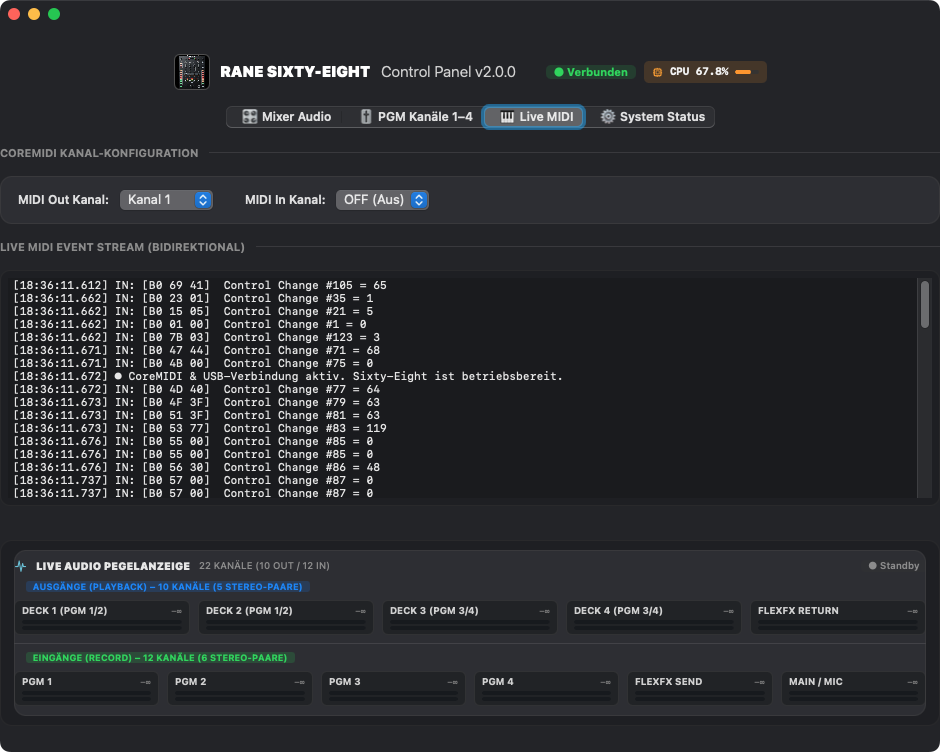
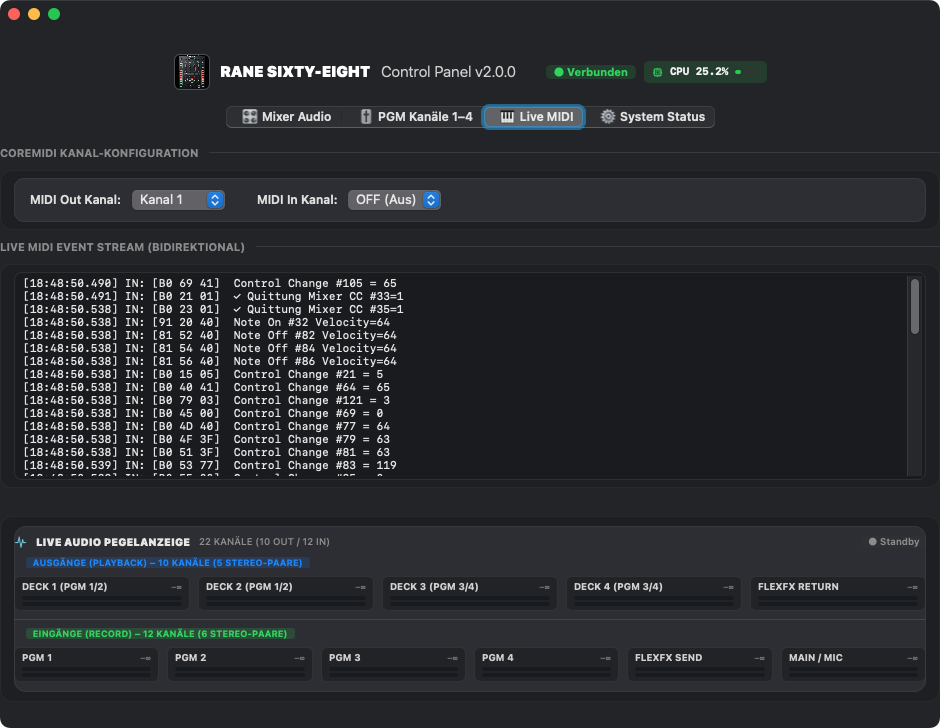
feat(ui): Unify dual-tier inset container styling across all tabs and sections

diff --git a/src/manager/Views/Tabs/SystemStatusTab.swift b/src/manager/Views/Tabs/SystemStatusTab.swift
@@ -8,7 +8,7 @@ extension MainWindowController {
         let page = NSStackView()
         page.orientation = .vertical
         page.alignment = .leading
-        page.spacing = 16
+        page.spacing = 10
         page.edgeInsets = NSEdgeInsets(top: 2, left: 0, bottom: 2, right: 0)
 
         let sHeader = createSectionHeader(title: Localization.tr(en: "macOS Audio & MIDI Subsystem Diagnostics", de: "macOS Audio- & MIDI-Subsystem Diagnose"))
@@ -27,32 +27,36 @@ extension MainWindowController {
         firmwareStatusLabel = createStatusRow(title: Localization.tr(en: "Mixer Firmware:", de: "Mixer Firmware:"), stack: statusStack)
         cpuStatusLabel = createStatusRow(title: Localization.tr(en: "System CPU Load:", de: "System CPU-Auslastung:"), stack: statusStack)
 
-        let statusCard = statusStack.wrapInCard(padding: NSEdgeInsets(top: 14, left: 18, bottom: 14, right: 18))
-        page.addArrangedSubview(statusCard)
-        statusCard.widthAnchor.constraint(equalTo: page.widthAnchor).isActive = true
+        let statusCard = statusStack.wrapInCard(
+            cornerRadius: 10,
+            borderColor: NSColor(white: 0.28, alpha: 0.45),
+            fillColor: NSColor(red: 0.176, green: 0.180, blue: 0.200, alpha: 1.0),
+            padding: NSEdgeInsets(top: 10, left: 14, bottom: 10, right: 14)
+        )
 
         let btnRow = NSStackView()
         btnRow.orientation = .horizontal
-        btnRow.spacing = 12
+        btnRow.spacing = 10
+        btnRow.distribution = .fillEqually
 
-        let rstBtn = NSButton(title: Localization.tr(en: "🔄 Restart CoreAudio & MIDI Services", de: "🔄 CoreAudio & MIDI Dienst Neu Starten"), target: self, action: #selector(onRestartDriverClicked))
+        let rstBtn = NSButton(title: Localization.tr(en: "🔄 Restart Services", de: "🔄 Dienst Neu Starten"), target: self, action: #selector(onRestartDriverClicked))
         rstBtn.bezelStyle = .rounded
         rstBtn.controlSize = .regular
 
-        let diagBtn = NSButton(title: Localization.tr(en: "🔍 Refresh Diagnostics", de: "🔍 Diagnose Aktualisieren"), target: self, action: #selector(onDiagnoseClicked))
+        let diagBtn = NSButton(title: Localization.tr(en: "🔍 Refresh", de: "🔍 Aktualisieren"), target: self, action: #selector(onDiagnoseClicked))
         diagBtn.bezelStyle = .rounded
         diagBtn.controlSize = .regular
 
-        let ledTitle = isLedTestRunning ? Localization.tr(en: "⏹ Stop LED Check", de: "⏹ LED-Test Beenden")
-                                        : Localization.tr(en: "💡 Mixer LED Light Test", de: "💡 Mixer LED-Lichtcheck")
+        let ledTitle = isLedTestRunning ? Localization.tr(en: "⏹ Stop LED", de: "⏹ LED Stop")
+                                        : Localization.tr(en: "💡 LED Test", de: "💡 LED-Check")
         let ledBtn = NSButton(title: ledTitle, target: self, action: #selector(onLedTestClicked))
         ledBtn.bezelStyle = .rounded
         ledBtn.controlSize = .regular
         ledBtn.isEnabled = RaneMidiService.shared.isConnected
         self.ledTestButton = ledBtn
 
-        let stressTitle = isStressTestRunning ? Localization.tr(en: "⏹ Stop Stress Test", de: "⏹ Stresstest Beenden")
-                                              : Localization.tr(en: "🔥 Hardware Stress Test", de: "🔥 Hardware-Stresstest")
+        let stressTitle = isStressTestRunning ? Localization.tr(en: "⏹ Stop Stress", de: "⏹ Stress Stop")
+                                              : Localization.tr(en: "🔥 Stresstest", de: "🔥 Stresstest")
         let stressBtn = NSButton(title: stressTitle, target: self, action: #selector(onStressTestClicked))
         stressBtn.bezelStyle = .rounded
         stressBtn.controlSize = .regular
@@ -63,7 +67,22 @@ extension MainWindowController {
         btnRow.addArrangedSubview(diagBtn)
         btnRow.addArrangedSubview(ledBtn)
         btnRow.addArrangedSubview(stressBtn)
-        page.addArrangedSubview(btnRow)
+
+        let diagContainerStack = NSStackView()
+        diagContainerStack.orientation = .vertical
+        diagContainerStack.alignment = .leading
+        diagContainerStack.spacing = 10
+        diagContainerStack.addArrangedSubview(statusCard)
+        statusCard.widthAnchor.constraint(equalTo: diagContainerStack.widthAnchor).isActive = true
+        diagContainerStack.addArrangedSubview(btnRow)
+        btnRow.widthAnchor.constraint(equalTo: diagContainerStack.widthAnchor).isActive = true
+
+        let diagInsetCard = diagContainerStack.wrapInInsetCard(
+            cornerRadius: 12,
+            padding: NSEdgeInsets(top: 8, left: 14, bottom: 10, right: 14)
+        )
+        page.addArrangedSubview(diagInsetCard)
+        diagInsetCard.widthAnchor.constraint(equalTo: page.widthAnchor).isActive = true
 
         let monHeader = createSectionHeader(title: Localization.tr(en: "Driver Log & Diagnostics", de: "Treiber Meldungen & Protokoll"))
         page.addArrangedSubview(monHeader)
@@ -81,10 +100,19 @@ extension MainWindowController {
         sysLogTextView.textColor = NSColor(white: 0.90, alpha: 1.0)
         scroll.documentView = sysLogTextView
 
-        let scrollCard = scroll.wrapInInsetCard(padding: NSEdgeInsets(top: 8, left: 8, bottom: 8, right: 8))
+        let innerScrollCard = scroll.wrapInCard(
+            cornerRadius: 8,
+            borderColor: NSColor(white: 0.28, alpha: 0.45),
+            fillColor: NSColor(red: 0.10, green: 0.105, blue: 0.12, alpha: 1.0),
+            padding: NSEdgeInsets(top: 4, left: 4, bottom: 4, right: 4)
+        )
+        let scrollCard = innerScrollCard.wrapInInsetCard(
+            cornerRadius: 12,
+            padding: NSEdgeInsets(top: 8, left: 14, bottom: 8, right: 14)
+        )
         page.addArrangedSubview(scrollCard)
         scrollCard.widthAnchor.constraint(equalTo: page.widthAnchor).isActive = true
-        scroll.heightAnchor.constraint(equalToConstant: 160).isActive = true
+        scroll.heightAnchor.constraint(equalToConstant: 140).isActive = true
 
         let bottomSpacer = NSView()
         bottomSpacer.setContentHuggingPriority(.defaultLow, for: .vertical)

diff --git a/src/manager/Views/Tabs/LiveMidiTab.swift b/src/manager/Views/Tabs/LiveMidiTab.swift
@@ -8,7 +8,7 @@ extension MainWindowController {
         let page = NSStackView()
         page.orientation = .vertical
         page.alignment = .leading
-        page.spacing = 16
+        page.spacing = 10
         page.edgeInsets = NSEdgeInsets(top: 2, left: 0, bottom: 2, right: 0)
 
         let secHeader = createSectionHeader(title: Localization.tr(en: "CoreMIDI Channel Configuration", de: "CoreMIDI Kanal-Konfiguration"))
@@ -48,7 +48,11 @@ extension MainWindowController {
         configStack.addArrangedSubview(outStack)
         configStack.addArrangedSubview(inStack)
 
-        let topCard = configStack.wrapInCard(padding: NSEdgeInsets(top: 14, left: 18, bottom: 14, right: 18))
+        let topCard = configStack.wrapInDualTierSectionCard(
+            cardCornerRadius: 10,
+            cardPadding: NSEdgeInsets(top: 12, left: 16, bottom: 12, right: 16),
+            insetPadding: NSEdgeInsets(top: 8, left: 14, bottom: 8, right: 14)
+        )
         page.addArrangedSubview(topCard)
         topCard.widthAnchor.constraint(equalTo: page.widthAnchor).isActive = true
 
@@ -82,10 +86,19 @@ extension MainWindowController {
         midiLogTextView.textColor = NSColor(white: 0.90, alpha: 1.0)
         scroll.documentView = midiLogTextView
 
-        let scrollCard = scroll.wrapInInsetCard(padding: NSEdgeInsets(top: 8, left: 8, bottom: 8, right: 8))
+        let innerScrollCard = scroll.wrapInCard(
+            cornerRadius: 8,
+            borderColor: NSColor(white: 0.28, alpha: 0.45),
+            fillColor: NSColor(red: 0.10, green: 0.105, blue: 0.12, alpha: 1.0),
+            padding: NSEdgeInsets(top: 4, left: 4, bottom: 4, right: 4)
+        )
+        let scrollCard = innerScrollCard.wrapInInsetCard(
+            cornerRadius: 12,
+            padding: NSEdgeInsets(top: 8, left: 14, bottom: 8, right: 14)
+        )
         page.addArrangedSubview(scrollCard)
         scrollCard.widthAnchor.constraint(equalTo: page.widthAnchor).isActive = true
-        scroll.heightAnchor.constraint(equalToConstant: 220).isActive = true
+        scroll.heightAnchor.constraint(equalToConstant: 200).isActive = true
 
         let bottomSpacer = NSView()
         bottomSpacer.setContentHuggingPriority(.defaultLow, for: .vertical)

diff --git a/src/manager/Views/Tabs/MixerAudioTab.swift b/src/manager/Views/Tabs/MixerAudioTab.swift
@@ -8,7 +8,7 @@ extension MainWindowController {
         let page = NSStackView()
         page.orientation = .vertical
         page.alignment = .leading
-        page.spacing = 16
+        page.spacing = 10
         page.edgeInsets = NSEdgeInsets(top: 2, left: 0, bottom: 2, right: 0)
 
         // SECTION 1: HARDWARE CONTROLS & MONITOR
@@ -95,7 +95,11 @@ extension MainWindowController {
         card1Stack.addArrangedSubview(rowHigh)
         rowHigh.widthAnchor.constraint(equalTo: card1Stack.widthAnchor).isActive = true
 
-        let card1 = card1Stack.wrapInCard()
+        let card1 = card1Stack.wrapInDualTierSectionCard(
+            cardCornerRadius: 10,
+            cardPadding: NSEdgeInsets(top: 10, left: 14, bottom: 10, right: 14),
+            insetPadding: NSEdgeInsets(top: 8, left: 14, bottom: 8, right: 14)
+        )
         page.addArrangedSubview(card1)
         card1.widthAnchor.constraint(equalTo: page.widthAnchor).isActive = true
 
@@ -188,7 +192,11 @@ extension MainWindowController {
         card2Stack.addArrangedSubview(rowUsbStat)
         rowUsbStat.widthAnchor.constraint(equalTo: card2Stack.widthAnchor).isActive = true
 
-        let card2 = card2Stack.wrapInCard()
+        let card2 = card2Stack.wrapInDualTierSectionCard(
+            cardCornerRadius: 10,
+            cardPadding: NSEdgeInsets(top: 10, left: 14, bottom: 10, right: 14),
+            insetPadding: NSEdgeInsets(top: 8, left: 14, bottom: 8, right: 14)
+        )
         page.addArrangedSubview(card2)
         card2.widthAnchor.constraint(equalTo: page.widthAnchor).isActive = true
 

diff --git a/src/manager/Views/Components/UIComponents.swift b/src/manager/Views/Components/UIComponents.swift
@@ -41,14 +41,32 @@ extension NSView {
     }
 
     func wrapInInsetCard(
-        cornerRadius: CGFloat = 10,
-        padding: NSEdgeInsets = NSEdgeInsets(top: 14, left: 14, bottom: 14, right: 14)
+        cornerRadius: CGFloat = 12,
+        padding: NSEdgeInsets = NSEdgeInsets(top: 10, left: 14, bottom: 10, right: 14)
     ) -> NSView {
         return wrapInCard(
             cornerRadius: cornerRadius,
             borderColor: NSColor(white: 0.20, alpha: 0.50),
             fillColor: NSColor(red: 0.118, green: 0.122, blue: 0.137, alpha: 1.0),
             padding: padding
+        )
+    }
+
+    /// Wraps a view inside a themed content card, and then wraps that card inside the outer dark inset window with 14pt margin alignment.
+    func wrapInDualTierSectionCard(
+        cardCornerRadius: CGFloat = 10,
+        cardPadding: NSEdgeInsets = NSEdgeInsets(top: 10, left: 16, bottom: 10, right: 16),
+        insetPadding: NSEdgeInsets = NSEdgeInsets(top: 10, left: 14, bottom: 10, right: 14)
+    ) -> NSView {
+        let innerCard = self.wrapInCard(
+            cornerRadius: cardCornerRadius,
+            borderColor: NSColor(white: 0.28, alpha: 0.45),
+            fillColor: NSColor(red: 0.176, green: 0.180, blue: 0.200, alpha: 1.0),
+            padding: cardPadding
+        )
+        return innerCard.wrapInInsetCard(
+            cornerRadius: 12,
+            padding: insetPadding
         )
     }
 }

diff --git a/src/manager/Controller/MainWindowController.swift b/src/manager/Controller/MainWindowController.swift
@@ -428,11 +428,11 @@ class MainWindowController: NSWindowController, NSWindowDelegate {
 
     private func targetWindowHeight(for index: Int) -> CGFloat {
         switch index {
-        case 0: return 705   // Mixer Audio
+        case 0: return 715   // Mixer Audio
         case 1: return 675   // PGM Channels 1–4
-        case 2: return 685   // Live MIDI
-        case 3: return 685   // System Status
-        default: return 695
+        case 2: return 695   // Live MIDI
+        case 3: return 715   // System Status
+        default: return 700
         }
     }
 
